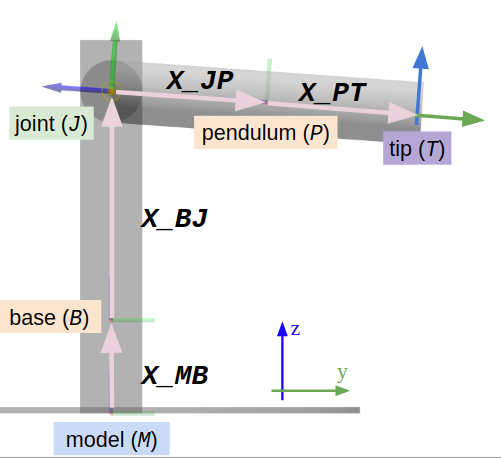
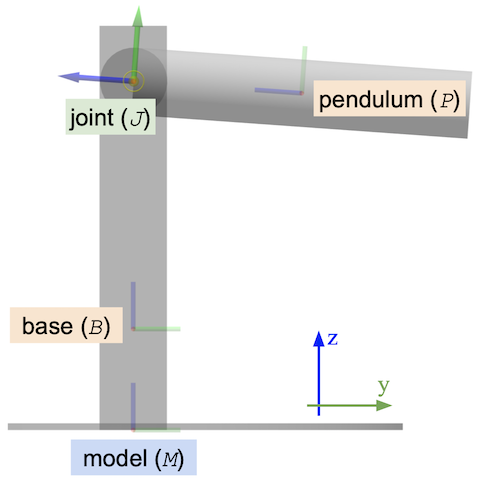
Update frame semantics docs (#83)
This incorporates more visuals from the ROSCon
presentation into the SDFormat 1.7 frame semantics
documentation.

* Update description of xyz/@expressed_in
* Mention __model__ in canonical link section

Changed region(s): [[0.0, 0.0, 0.96, 1.0]]

diff --git a/pose_frame_semantics/tutorial.md b/pose_frame_semantics/tutorial.md
@@ -1,7 +1,9 @@
 # Pose Frame Semantics Tutorial
 
 This documentation explains the implemented changes proposed by
-[Pose Frame Semantics Proposal](http://sdformat.org/tutorials?tut=pose_frame_semantics_proposal) in SDFormat 1.7.
+[Pose Frame Semantics Proposal](http://sdformat.org/tutorials?tut=pose_frame_semantics_proposal) in SDFormat 1.7,
+using visuals from the [Pose Frame Specification for SDFormat 1.7](https://doi.org/10.36288/ROSCon2019-900911)
+presentation at [ROSCon 2019](https://roscon.ros.org/2019/).
 
 Prerequisites:
 
@@ -9,15 +11,74 @@ Prerequisites:
 
 - [Specifying model kinematics in SDFormat](http://sdformat.org/tutorials?tut=spec_model_kinematics&cat=specification&#specifying-model-kinematics-in-sdformat)
 
+## Syntax
+
+This document uses [XPath syntax](https://www.w3schools.com/xml/xpath_syntax.asp)
+to describe elements and attributes concisely.
+For example, `<model>` tags are referred to as `//model` using XPath.
+XPath is even more concise for referring to nested tags and attributes.
+In the following example, `<link>` elements inside `<model>` tags are
+referenced as `//model/link` and  model `name` attributes as `//model/@name`:
+
+    <model name="model_name">
+      <link/>
+    </model>
+
 ## What's New In SDFormat 1.7 With Examples
+
+The primary new features in SDFormat 1.7 are specifying poses relative to a
+frame of your choice using `//pose/@relative_to` and creating named frames
+using `//frame`. A model consisting of two links (`base` and `pendulum`)
+and one revolute joint is used to illustrate these new features.
 
 [[file:pendulum.png|400px]]
 
-[[file:pendulum_demo.gif|465px]]
+### Specifying relative poses with `//pose/@relative_to`
 
-### `//pose/@relative_to`
+SDFormat 1.6 and earlier have
+[fixed rules for each type of element](/tutorials?tut=pose_frame_semantics&ver=1.5#parent-frames-in-sdf-1-4)
+to determine the frame in which a pose is specified. For example, all link
+poses are specified relative to the model frame. This is illustrated for the
+pendulum with base model in SDFormat 1.6 format.
 
-A new `/@relative_to` attribute for `//pose` tags to specify the relative relation of the current pose to another entity pose.
+[[file:pendulum_16.png|400px]]
+
+~~~
+<sdf version="1.6">
+  <model name="pendulum_with_base">
+    <link name="base">
+      <pose>0 0 0.3   0 0 0</pose>
+    </link>
+    <link name="pendulum">
+      <pose>0 0.5 1.0   1.57 0 0</pose>
+    </link>
+    <joint name="joint" type="revolute">
+      <parent>base</parent>
+      <child>pendulum</child>
+      <pose>0 0 0.5   0 0 0</pose>
+      <axis>
+        <xyz>1 0 0</xyz>
+      </axis>
+    </joint>
+  </model>
+</sdf>
+~~~
+
+With SDFormat 1.7, a pose value can be specified relative to another frame
+of your choice.
+The `//pose` element now gets an attribute called `@relative_to`, which takes
+the name of another link, joint, or nested model or the name of a frame created
+with the `//frame` tag (see next section).
+This makes SDFormat more expressive and may reduce duplication of numerical
+values in pose data within a model file.
+
+The same pendulum with base model can be expressed in SDFormat 1.7 by defining
+the `joint` pose relative to the `base` link, and the pose of
+the `pendulum` link relative to the `joint`, in each case by
+specifying the name of the relative-to link or joint in the `@relative_to`
+attribute.
+
+[[file:pendulum_17.png|400px]]
 
 ```xml
 <sdf version="1.7">
@@ -44,9 +105,31 @@ A new `/@relative_to` attribute for `//pose` tags to specify the relative relati
 </sdf>
 ```
 
-### `//frame/@attach_to`
+For more details, see the [Pose and Frame Semantics](#pose-and-frame-semantics)
+section of this document.
 
-A new `/@attach_to` attribute for `//frame` tags to specify the parent frame of the current frame.
+### Named frames
+
+Three things are needed to create a frame using the `//frame` element:
+
+* in `//frame/@name`: a unique name.
+* in `//frame/@attached_to`: the name of a parent frame to which this frame is
+  attached. If `@attached_to` is not specified, the frame will be attached to
+  the model frame (see next section).
+* in `//frame/pose`: a pose, which may be defined relative to another frame
+  using `//frame/pose/@relative_to`.
+  If `//frame/pose/@relative_to` is not specified, the pose will be relative to
+  the attached-to frame.
+
+For the pendulum with base illustrated above, a frame named `tip` is attached
+to the `pendulum` link at its farthest end by specifying the link's name in the
+`@attached_to` attribute and expressing its pose relative-to the `pendulum`
+link frame.
+A visual in the pendulum link is created whose pose is relative-to the `tip`
+frame.
+Note that in SDFormat 1.7, an empty `//pose` is treated as an identity,
+so specifying `<pose relative_to="tip"/>` will co-locate an entity with the
+`tip` frame.
 
 ```xml
 <sdf version="1.7">
@@ -65,30 +148,67 @@ A new `/@attach_to` attribute for `//frame` tags to specify the parent frame of 
 </sdf>
 ```
 
-### Canonical link
-
-A new `/@canonical_link` attribute for `//model` tags to specify the canonical link of the model.
-
-```xml
-<sdf version="1.7">
-  <model name="pendulum_with_base" canonical_link="base">
-    <link name="base">
-    ...
-    </link>
-  </model>
-</sdf>
-```
+For more details, see the [Pose and Frame Semantics](#pose-and-frame-semantics)
+section of this document.
 
 ### Naming requirements for links, joints and frames
 
-New naming and scoping rules for links, joints, and frames; new unique names and reserved names in SDFormat 1.7.
+There are more restrictive rules in SDFormat 1.7 for naming entities related
+to name uniqueness and reserved names. In addition, scoping rules are defined
+that affect uniqueness and name collisions as well as which frames a given
+element is permitted to reference in an SDFormat file.
 
 See [Name conflicts and scope](#name-conflicts-and-scope) and
 [Unique names and reserved names](#unique-names-and-reserved-names).
 
+### Canonical link and model frame
+
+Each model frame must be attached to a link, which can be specified in the
+`//model/@canonical_link` attribute. If unspecified, the canonical link
+defaults to the first `//link` element in the model. Additionally, the model
+frame can be referenced using the reserved name `__model__`.
+
+In the previous examples of the `pendulum_with_base` XML snippets,
+since the `@canonical_link` attribute is unspecified the `base` link is the
+canonical link by default as the first link listed in the XML.
+In the following snippet, the order of the links in the XML is reversed, so
+the `@canonical_link` attribute is used to explicitly specify `base`.
+Additionally, the joint pose is specified relative to the model frame instead
+of the base link.
+
+```xml
+<sdf version="1.7">
+  <model name="pendulum_with_base" canonical_link="base">
+    <link name="pendulum">
+      <pose relative_to="joint">
+        0 0 -0.5 0 0 0
+      </pose>
+    </link>
+    <link name="base">
+      <pose>0 0 0.3   0 0 0</pose>
+    </link>
+    <joint name="joint" type="revolute">
+      <parent>base</parent>
+      <child>pendulum</child>
+      <pose relative_to="__model__">
+        0 0 1.03 1.57 0 0
+      </pose>
+      <axis>
+        <xyz>1 0 0</xyz>
+      </axis>
+    </joint>
+  </model>
+</sdf>
+```
+
 ### `//joint/axis/xyz/@expressed_in` instead of `use_parent_model_frame`
 
-Replacing `/@use_parent_model_frame` attribute with `/@expressed_in` attribute to specify the frame in which the pose is defined in. 
+Just as `//pose/@relative_to` provides flexibility to model authors when
+specifying pose, the new `//joint/axis/xyz/@expressed_in` and
+`//joint/axis2/xyz/@expressed_in` attributes provide flexibility when
+specifying joint axis unit vectors.
+These attributes also allow the `//use_parent_model_frame` element to be
+removed and replaced by setting `//xyz/@expressed_in` to `__model__`.
 
 ```xml
 <sdf version="1.7">
@@ -102,14 +222,14 @@ Replacing `/@use_parent_model_frame` attribute with `/@expressed_in` attribute t
     <joint name="joint" type="revolute">
       ...
       <axis>
-        <xyz expressed_in="pendulum_with_base">1 0 0</xyz>
+        <xyz expressed_in="__model__">1 0 0</xyz>
       </axis>
     </joint>
   </model>
 </sdf>
 ```
 
-## Pose and frame
+## Pose and frame semantics
 
 The pose of a model represents the location and orientation of the model in
 a three-dimensional space. See [Specifying Pose in SDFormat](http://sdformat.org/tutorials?tut=specify_pose&cat=specification&) for more detail.
